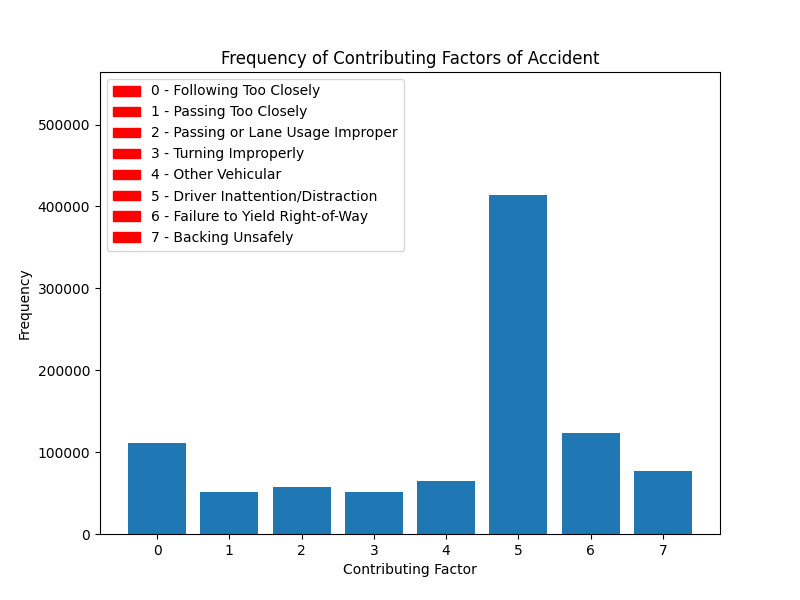
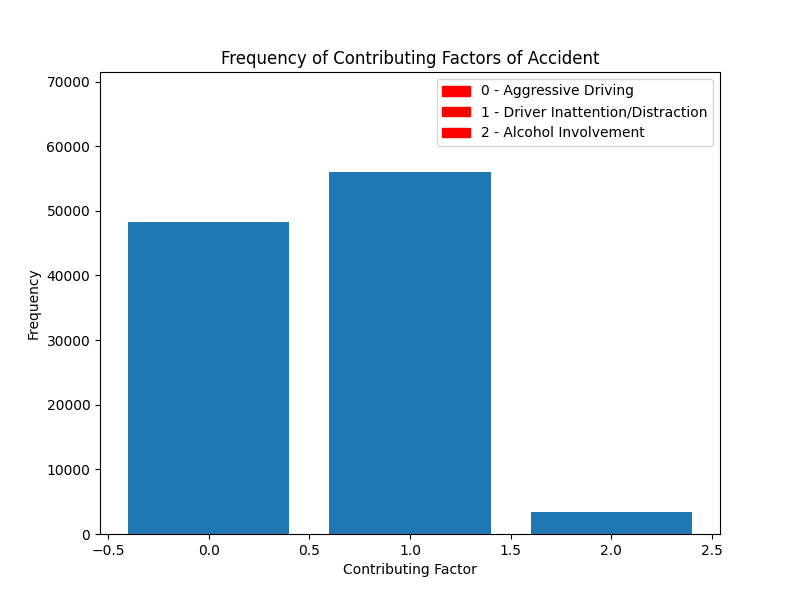
Finished up final project code

diff --git a/Final_Project/file_handler.py b/Final_Project/file_handler.py
@@ -4,17 +4,85 @@ from datetime import datetime
 import numpy as np
 from matplotlib import pyplot as plt
 import math
+import requests
+import pandas as pd
 
 from sklearn.cluster import KMeans
 import numpy as np
+from transformers import AutoTokenizer
+import dask.array as da
+
+from sentence_transformers import SentenceTransformer, util
+import csv
+
+api_token = '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'
+API_URL = "https://api-inference.huggingface.co/models/sentence-transformers/all-MiniLM-L6-v2"
+headers = {"Authorization": f"Bearer {api_token}"}
+
+def query(payload):
+    response = requests.post(API_URL, headers=headers, json=payload)
+    return list(response.json())
+
 
 class File_Handler(object):
     def __init__(self):
         self.file_path = file_path = "data/Motor_Vehicle_Accidents_NY.parquet"
         start_time = time.time()
         self.df = dd.read_parquet(self.file_path, engine='pyarrow')
-        print(f"Loading data took {round(time.time() - start_time,2)} (s)")
+        print("Finished Loading")
+        self.df["CRASH TIME"] =  self.df["CRASH TIME"].apply(lambda x: x.split(":")[0])
         
+        self.cause_data_lst = []
+        with open('./data/CLEAN_Cause_Data.csv', mode ='r') as file:    
+            csvFile = csv.DictReader(file)
+            for lines in csvFile:
+                self.cause_data_lst += [lines['0']]
+        '''
+            CLEAN UP NLP
+        start_time = time.time()
+        source_sentences = ["Unspecified", "Aggressive Driving", "Driver Inattention/Distraction", "Alcohol Involvement"]
+        
+        #num_batches = 272
+        num_batches = 100
+        batch_size = 300
+        clean_contributing_factor = []
+        start_time = time.time()
+
+        model = SentenceTransformer('sentence-transformers/msmarco-distilbert-base-tas-b')
+        for i in range(num_batches):
+            if i%2 == 0:
+                print(f"{i}     time: {round(time.time() - start_time, 2)}")
+                start_time = time.time()
+            clean_none = lambda x: x if x else "Unspecified"
+            batch = clean_none(list(self.df["CONTRIBUTING FACTOR VEHICLE 1"][i * batch_size:(i + 1) *  batch_size]))
+            scores = []
+            for source_sentence in source_sentences:
+                query = source_sentence
+                docs = batch
+
+                #Encode query and documents
+                query_emb = model.encode(query)
+                doc_emb = model.encode(docs)
+
+                data = util.dot_score(query_emb, doc_emb)[0].cpu().tolist()
+
+                scores += [data]
+            clean_lst = []
+            for j in range(len(scores[0])):
+                if batch[j] == "Unspecified":
+                    clean_lst += ["Unspecified"]
+                else:
+                    temp_scores = [score[j] for score in scores]
+                    best_score = max(temp_scores)
+                    index_score = temp_scores.index(best_score)
+                    clean_lst += [source_sentences[index_score]]
+
+            clean_contributing_factor += clean_lst
+
+        #df = pd.DataFrame(np.array(clean_contributing_factor))
+        #df.to_csv("./data/CLEAN_Cause_Data.csv")
+            '''
+
         self.latest_date = None
         self.earliest_date = None
         pass
@@ -129,6 +197,22 @@ class File_Handler(object):
         plt.savefig(f'./graphs/{field_name}.png')
         plt.close()
 
+    def crashtime_analysis(self):
+        x_2 = self.df["CRASH TIME"]
+        (lst_boroughs, lst_data, max_label, max_label_val) = self.group_up_str_fields(x_2, "int") 
+
+        plt.plot(lst_boroughs, lst_data)
+        plt.ylim([0, max_label_val * 1.2])
+        plt.xlabel("Hour")
+        plt.ylabel("Number Reported")
+        plt.title("Number of Accidents by Crash Time")
+
+        figure = plt.gcf()
+        figure.set_size_inches(8, 6)
+        field_name = "crash_time"
+        plt.savefig(f'./graphs/{field_name}.png')
+        plt.close()
+
     def injuries_analysis(self):
         x_2 = self.df["NUMBER OF PERSONS INJURED"]
         (lst_injuries, lst_data, max_label, max_label_val) = self.group_up_str_fields(x_2, "int")
@@ -162,19 +246,19 @@ class File_Handler(object):
         plt.close()
 
     def contributing_factor(self):
-        x_2 = self.df["CONTRIBUTING FACTOR VEHICLE 1"]
+        x_2 = self.cause_data_lst
         (lst_contributing_factors, lst_data, max_label, max_label_val) = self.group_up_str_fields(x_2, None)
         
-        cut_off = 50000
+        cut_off = 1000
         new_lst_factors = []
         new_lst_data = []
         for i in range(len(lst_contributing_factors)):
-            if lst_data[i] > cut_off and lst_contributing_factors[i] != "Unspecified":
+            if lst_data[i] > cut_off and lst_contributing_factors[i] not in ["Unspecified","Unspecificed"]:
                 new_lst_factors += [lst_contributing_factors[i]]
                 new_lst_data += [lst_data[i]]
 
         plt.bar([i for i in range(len(new_lst_data))], new_lst_data)
-        plt.ylim([0, max_label_val * 0.8])
+        plt.ylim([0, max_label_val * 1.2])
         plt.xlabel("Contributing Factor")
         plt.ylabel("Frequency")
         plt.title("Frequency of Contributing Factors of Accident")
@@ -190,42 +274,78 @@ class File_Handler(object):
         plt.savefig(f'./graphs/{field_name}.png')
         plt.close()
 
+    def contributing_factor_ai(self):
+        x_2 = self.cause_data_lst
+        (lst_contr_fact, lst_data, max_label, max_label_val) = self.group_up_str_fields(x_2, None)
+
+        plt.bar(lst_contr_fact, lst_data)
+        plt.ylim([0, max_label_val * 1.2])
+        plt.xlabel("Cause of Accident")
+        plt.ylabel("Number Reported")
+        plt.title("Frequency of Different Causes of Accident")
+
+        figure = plt.gcf()
+        figure.set_size_inches(8, 6)
+        field_name = "cause_of_accident"
+        plt.savefig(f'./graphs/{field_name}.png')
+        plt.close()
+
+    '''
+    TODO KMEANS WITH CAUSE OF ACCIDENT
+    '''
+
+    '''
+    TODO KMEANS WITH VEHICLE INFORMATION
+    '''
+
     def k_means_groups(self, lst_facts):
+        burroughs_lst = ["BROOKLYN", "QUEENS", "MANHATTAN", "BRONX", "STATEN ISLAND"]
+       
         a = lambda x: 0 if math.isnan(x) else x
+        b = lambda x: burroughs_lst.index(x) + 1 if x in burroughs_lst else float(x)
+        c = lambda x: a(x) if type(x) != str else b(x)
+        d = lambda x: c(x) if x else 0 
         lst_dumb = []
         for val in np.array(self.df[lst_facts].values):
-            lst_dumb += [np.array([a(val_2) for val_2 in val])]
+            lst_dumb += [np.array([d(val_2) for val_2 in val])]
         X = np.array(lst_dumb)
-        num = len(lst_facts)
-        kmeans = KMeans(n_clusters = num).fit(X)
-        dct_count = {}
-        for label in kmeans.labels_:
-            if label in dct_count:
-                dct_count[label] += 1
-            else:
-                dct_count[label] = 1
+        print(X.shape)
+        numCluster = 30
+        kmeans = KMeans(n_clusters = numCluster).fit(X)
+
         print(f"Factors:    {lst_facts}")
-        print(f"Labels:     {[ (key, dct_count[key]) for key in dct_count.keys()]}")
+        
+        lstCount = [(0, i) for i in range(numCluster)]
+        for label in kmeans.labels_:
+            tV = lstCount[label]
+            lstCount[label] = (tV[0] + 1, tV[1])
+        lstCount = sorted(lstCount)[::-1]
+        print("Centers:")
+        for i in range(len(lstCount)):
+            groupNum = lstCount[i][1]
+            numCount = lstCount[i][0]
+            print(f"{groupNum},   {numCount},    {[round(val,2) for val in kmeans.cluster_centers_[groupNum]]}")
 
-        new_centers = []
-        for center in kmeans.cluster_centers_:
-            new_centers += [[int(val) for val in center]]
 
-        print(f"Centers:     {new_centers}")
+    def all_kmeans_analysis(self):
+        lst_1 = ["CRASH TIME","BOROUGH", "NUMBER OF PERSONS INJURED", "NUMBER OF PERSONS KILLED"]
+        print("Deaths and Injuries")
+        self.k_means_groups(lst_1)
 
     def introductory_analysis(self):
         num_entries = self.df.shape[0].compute()
         print(f"Num motor vehicle accident entries is {num_entries}")
         
-        self.day_of_week_analysis()
-        self.yearly_analysis()
-        self.borough_analysis()
-        self.injuries_analysis()
-        self.deaths_analysis()
+        #self.day_of_week_analysis()
+        #self.yearly_analysis()
+        #self.borough_analysis()
+        #self.injuries_analysis()
+        #self.deaths_analysis()
         self.contributing_factor()
+        #self.crashtime_analysis()
+        self.contributing_factor_ai()
+        self.all_kmeans_analysis()
 
-        lst_1 = ["NUMBER OF PERSONS INJURED", "NUMBER OF PERSONS KILLED", "NUMBER OF PEDESTRIANS INJURED", "NUMBER OF PEDESTRIANS KILLED", "NUMBER OF CYCLIST INJURED", "NUMBER OF CYCLIST KILLED", "NUMBER OF MOTORIST INJURED", "NUMBER OF MOTORIST KILLED"]
-        self.k_means_groups(lst_1)
 
 
 if __name__ == "__main__":
